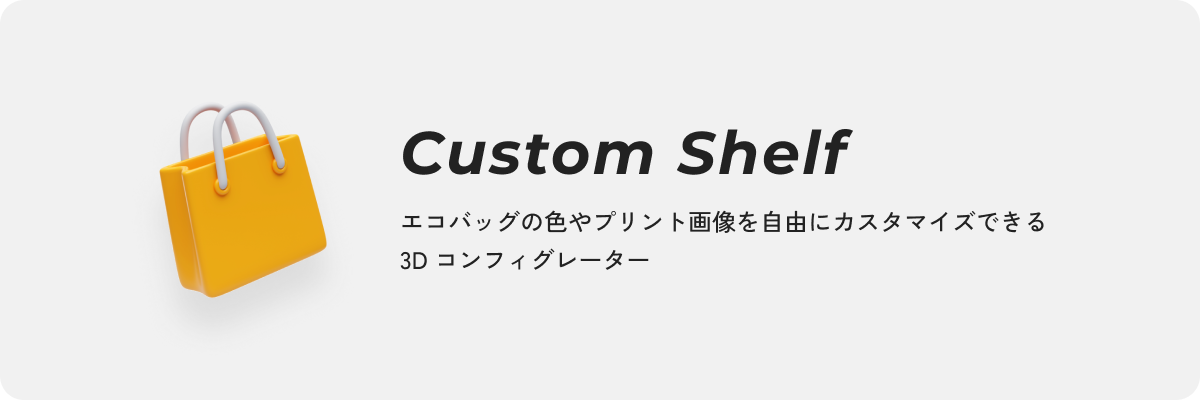
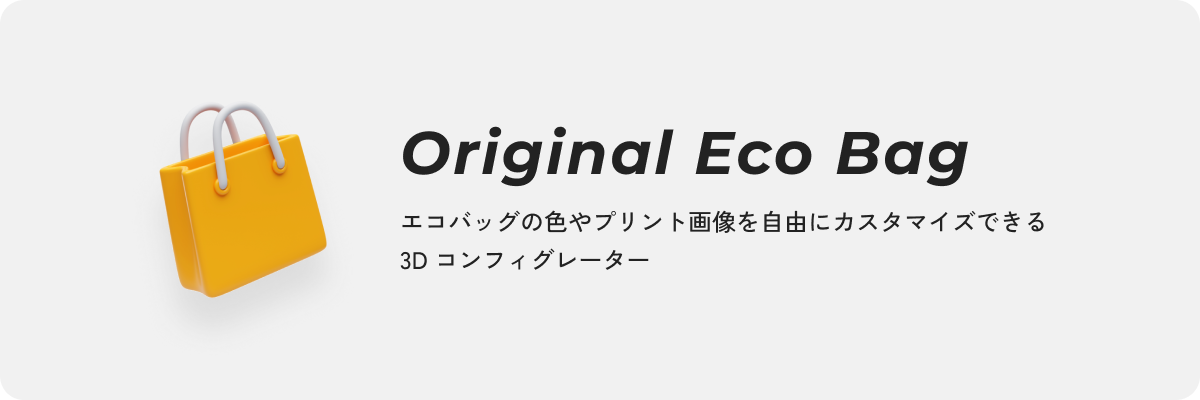
[Fix] README のバナーとタイトルの修正

Changed region(s): [[0.3392, 0.3, 0.8325, 0.48]]

diff --git a/README.md b/README.md
@@ -9,7 +9,7 @@
     <img src="https://img.shields.io/badge/-Blender-black?style=for-the-badge&logo=blender&logoColor=white&color=F5792A" alt="Blender" />
   </div>
 
-  <h3 align="center">Custom Shelf</h3>
+  <h3 align="center">Original Eco Bag </h3>
   <br />
 </div>
 
@@ -29,7 +29,7 @@
 ## <a name="link">🔗 サイトのURL</a>
 
 <a href="https://react-three-ecobag-configurator.vercel.app" target="_blank" rel="noopener noreferrer">
-Custom Shelf
+Original Eco Bag 
 </a>
 <div>
   <br />
